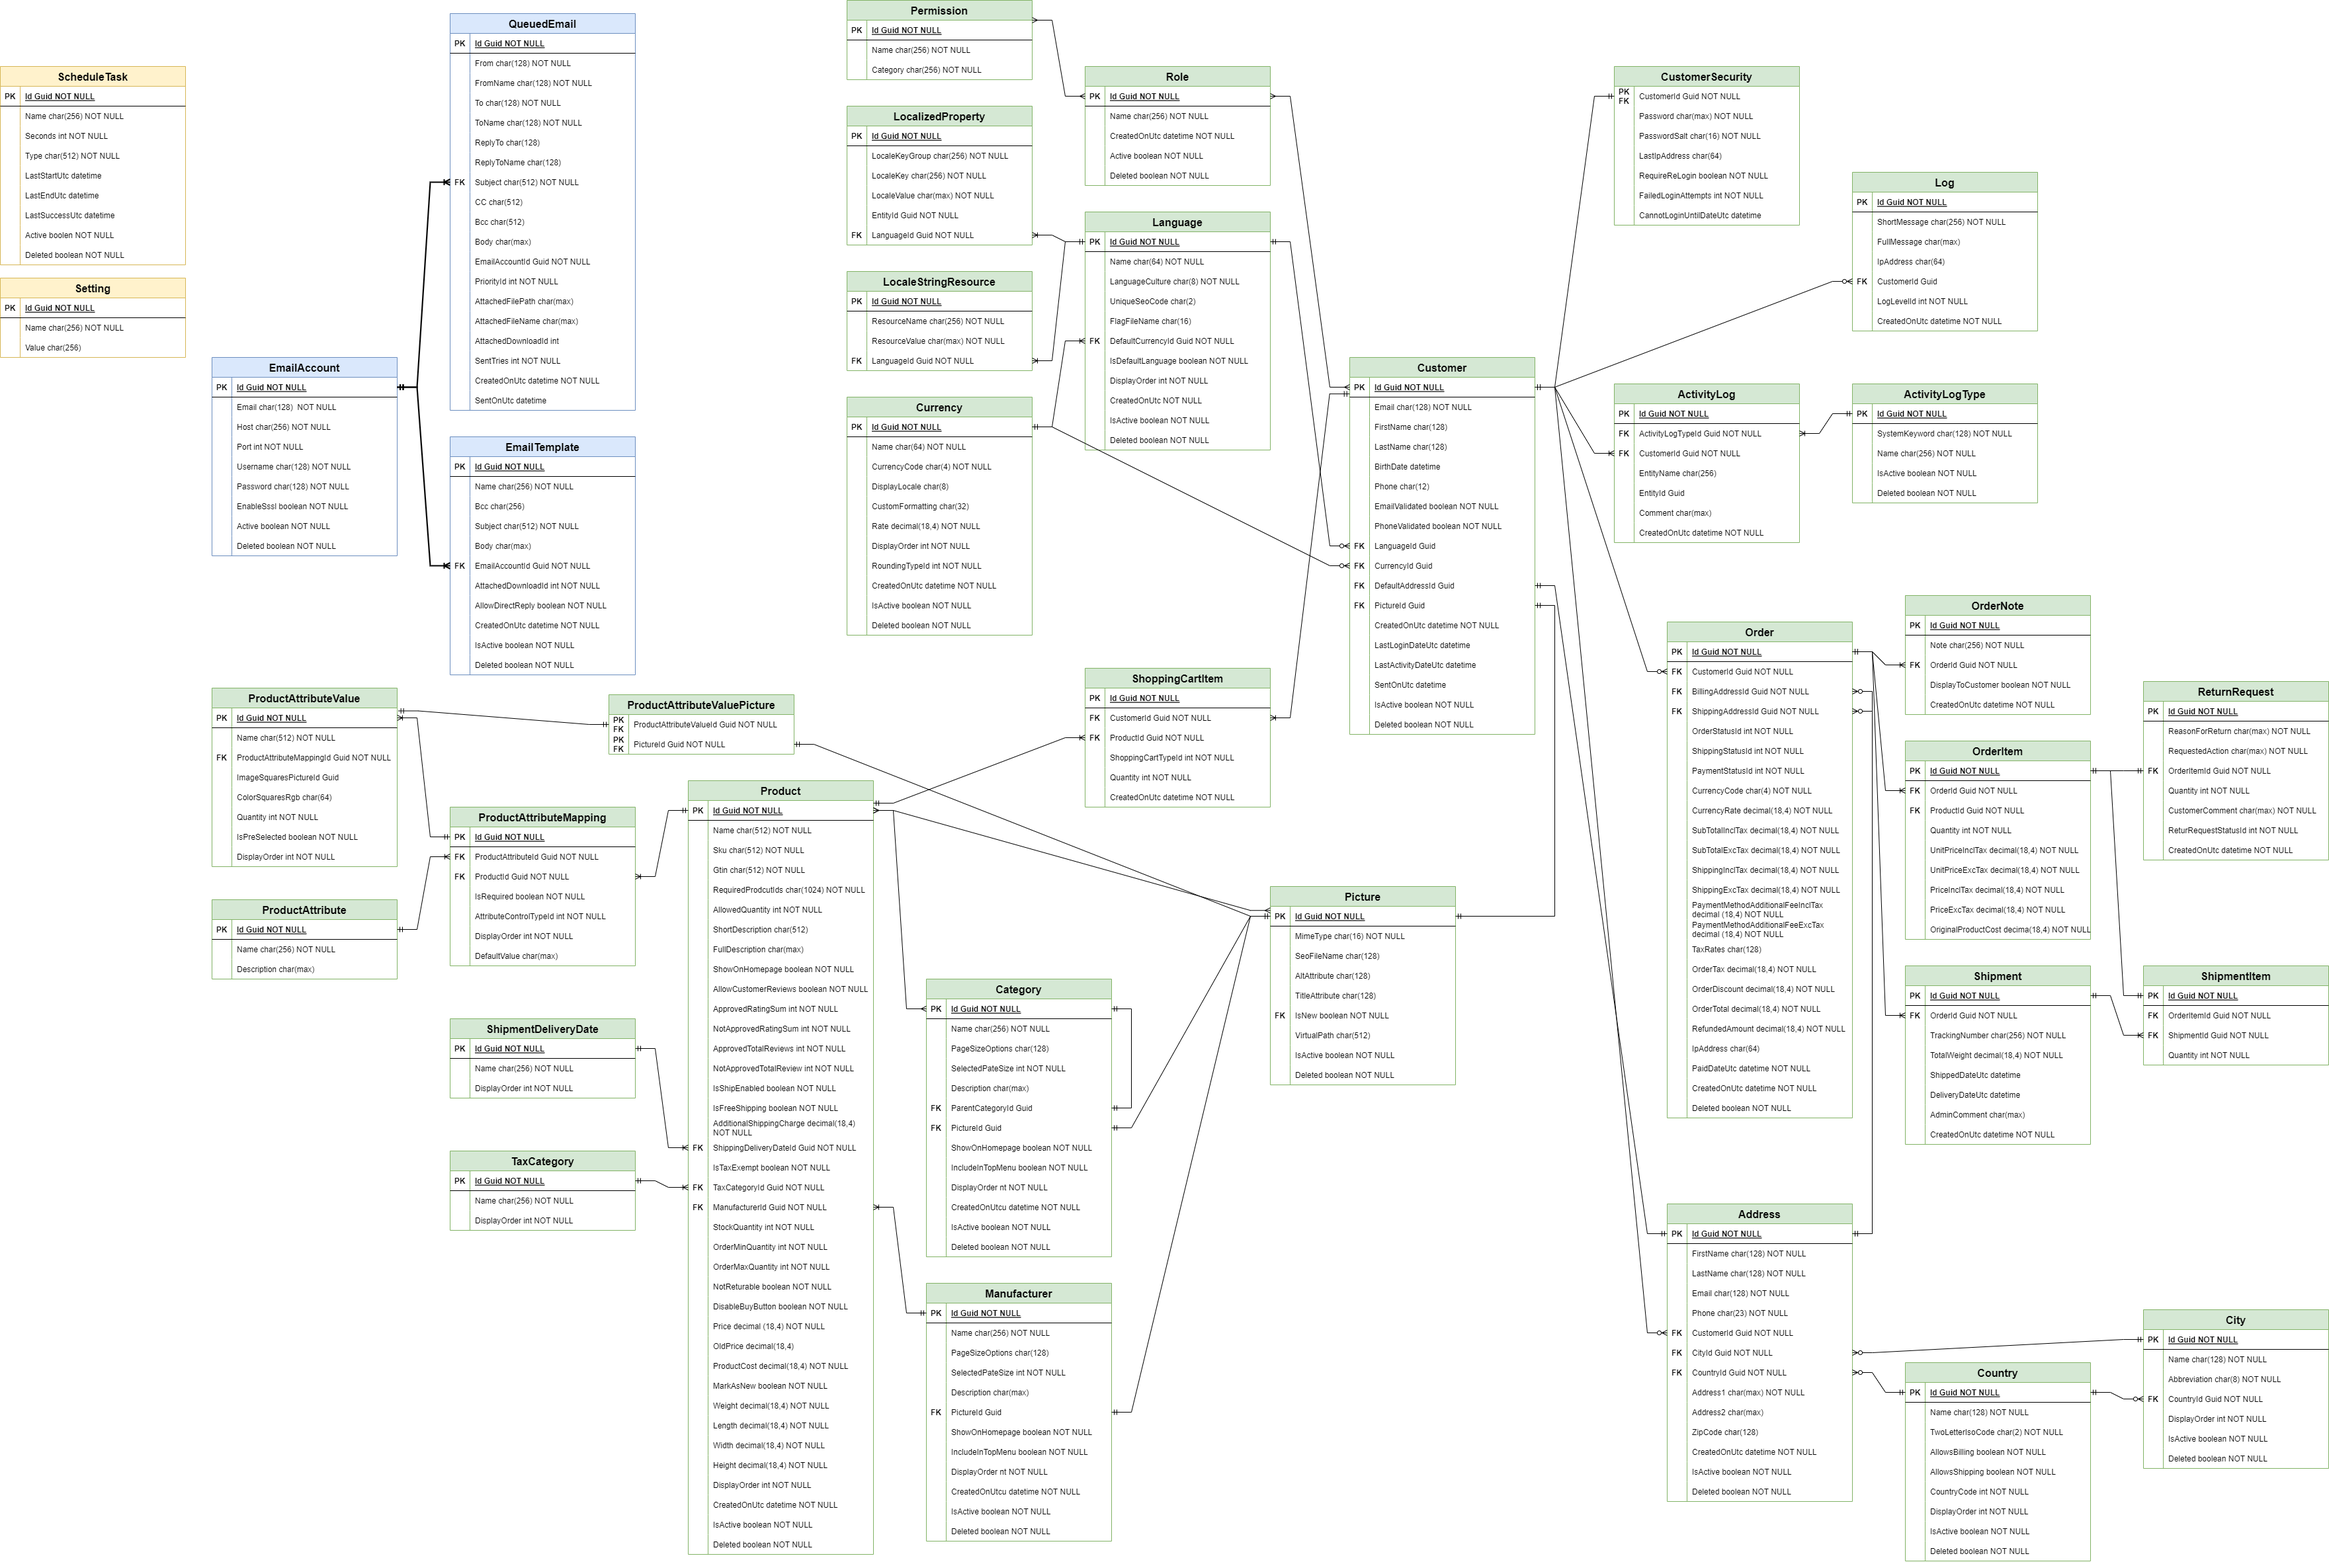
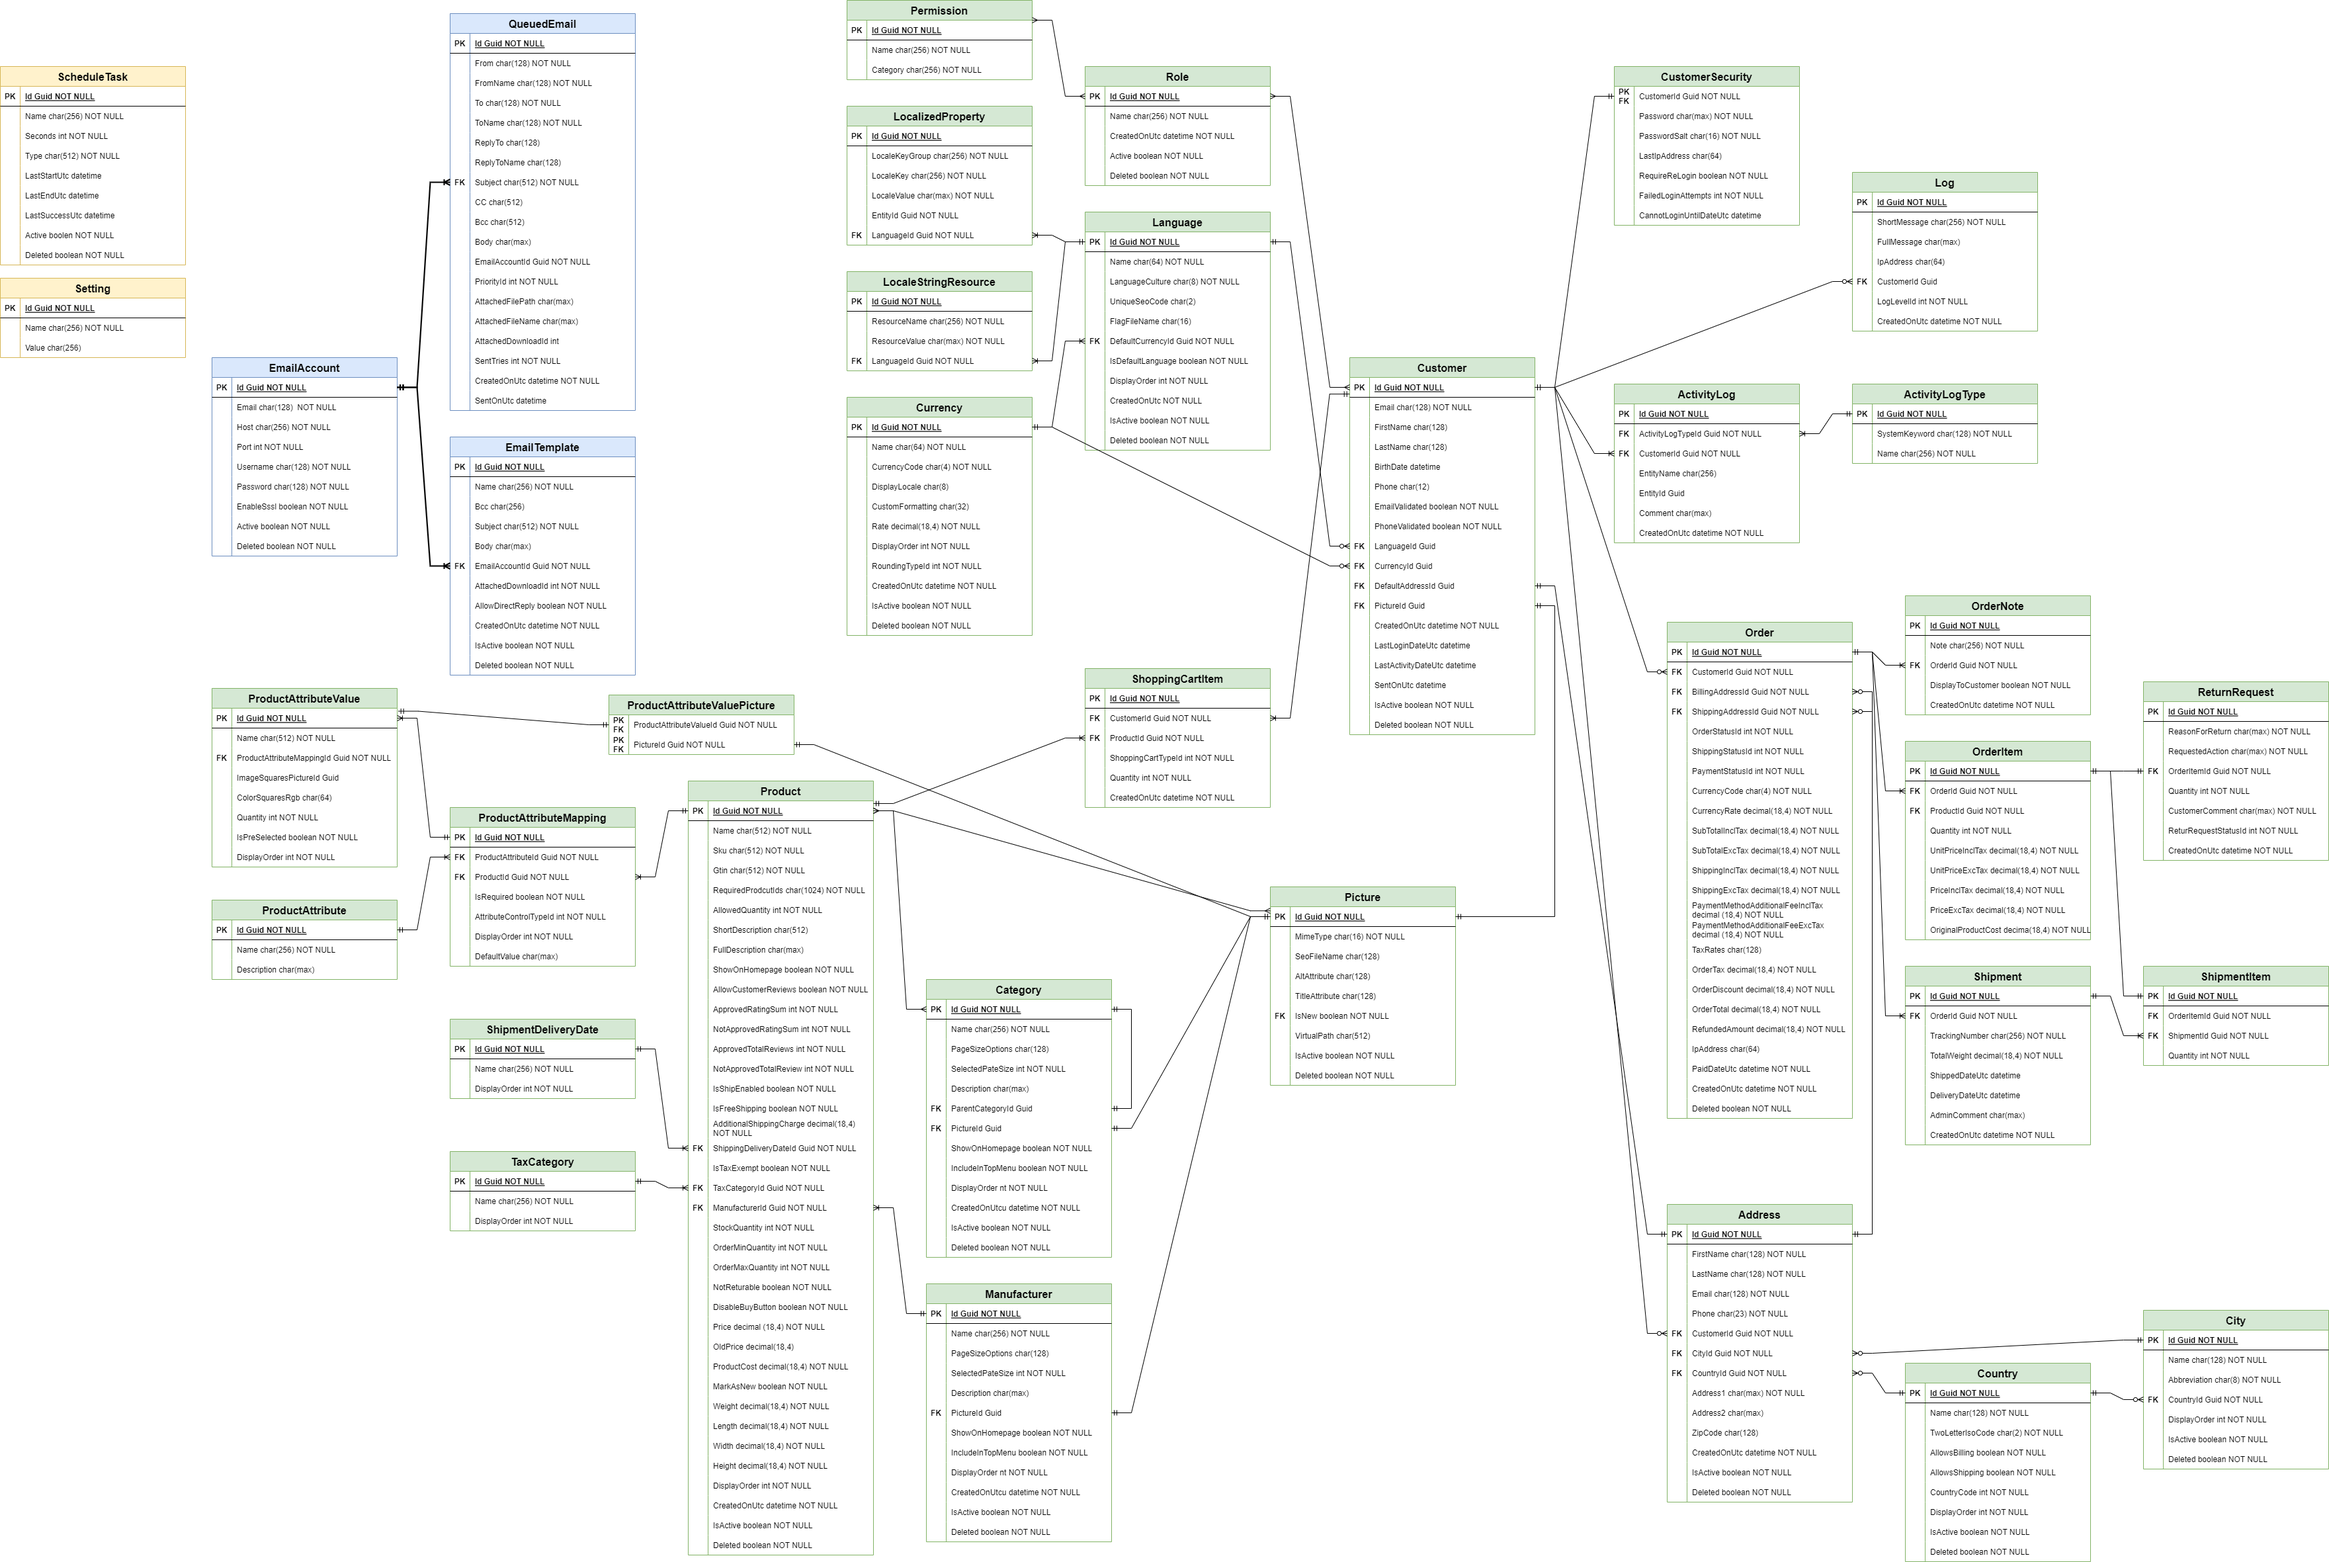
updated ActivityLog classes

diff --git a/src/eCommerce.Infrastructure/Persistence/Builders/Logging/ActivityLogTypeBuilder.cs b/src/eCommerce.Infrastructure/Persistence/Builders/Logging/ActivityLogTypeBuilder.cs
@@ -1,8 +1,8 @@
-using Microsoft.EntityFrameworkCore;
+using eCommerce.Core.Domain.Logging;
+using Microsoft.EntityFrameworkCore;
 using Microsoft.EntityFrameworkCore.Metadata.Builders;
-using YerdenYuksek.Core.Domain.Logging;
 
-namespace YerdenYuksek.Web.Framework.Persistence.Builders.Logging;
+namespace eCommerce.Infrastructure.Persistence.Builders.Logging;
 
 public sealed class ActivityLogTypeBuilder : IEntityTypeConfiguration<ActivityLogType>
 {
@@ -13,9 +13,14 @@ public sealed class ActivityLogTypeBuilder : IEntityTypeConfiguration<ActivityLo
         builder.HasKey(x => x.Id);
 
         builder.Property(q => q.SystemKeyword)
-            .HasMaxLength(255);
+            .HasMaxLength(128);
 
         builder.Property(q => q.Name)
-            .HasMaxLength(255);
+            .HasMaxLength(256);
+
+        builder.HasMany(q => q.ActivityLogs)
+            .WithOne(q => q.ActivityLogType)
+            .HasForeignKey(q => q.ActivityLogTypeId)
+            .IsRequired();
     }
 }

diff --git a/src/eCommerce.Infrastructure/Persistence/Builders/Logging/ActivityLogBuilder.cs b/src/eCommerce.Infrastructure/Persistence/Builders/Logging/ActivityLogBuilder.cs
@@ -2,7 +2,7 @@
 using Microsoft.EntityFrameworkCore.Metadata.Builders;
 using YerdenYuksek.Core.Domain.Logging;
 
-namespace YerdenYuksek.Web.Framework.Persistence.Builders.Logging;
+namespace eCommerce.Infrastructure.Framework.Persistence.Builders.Logging;
 
 public sealed class ActivityLogBuilder : IEntityTypeConfiguration<ActivityLog>
 {
@@ -12,15 +12,10 @@ public sealed class ActivityLogBuilder : IEntityTypeConfiguration<ActivityLog>
         
         builder.HasKey(x => x.Id);
 
-        builder.Property(q => q.IpAddress)
-            .HasMaxLength(16);
+        builder.Property(q => q.EntityName)
+            .HasMaxLength(256);
 
         builder.Property(e => e.CreatedOnUtc)
             .HasPrecision(6);
-
-        builder.HasOne(q => q.ActivityLogType)
-            .WithMany()
-            .HasForeignKey(q => q.ActivityLogTypeId)
-            .IsRequired();
     }
 }

diff --git a/src/eCommerce.Core/Domain/Logging/ActivityLogType.cs b/src/eCommerce.Core/Domain/Logging/ActivityLogType.cs
@@ -1,16 +1,26 @@
 using eCommerce.Core.Primitives;
+using YerdenYuksek.Core.Domain.Logging;
 
-namespace YerdenYuksek.Core.Domain.Logging;
+namespace eCommerce.Core.Domain.Logging;
 
 public class ActivityLogType : BaseEntity
 {
+    #region Constructure and Destructure
+
+    public ActivityLogType()
+    {
+        ActivityLogs = new HashSet<ActivityLog>();
+    }
+
+    #endregion
+
     #region Public Properties
 
     public string SystemKeyword { get; set; }
 
     public string Name { get; set; }
 
-    public bool Active { get; set; }
+    public ICollection<ActivityLog> ActivityLogs { get; set; }
 
     #endregion
 }

diff --git a/src/eCommerce.Core/Domain/Logging/ActivityLog.cs b/src/eCommerce.Core/Domain/Logging/ActivityLog.cs
@@ -1,4 +1,5 @@
-using eCommerce.Core.Primitives;
+using eCommerce.Core.Domain.Logging;
+using eCommerce.Core.Primitives;
 
 namespace YerdenYuksek.Core.Domain.Logging;
 
@@ -10,11 +11,11 @@ public class ActivityLog : BaseEntity
 
     public Guid CustomerId { get; set; }
 
+    public string? EntityName { get; set; }
+
     public Guid? EntityId { get; set; }
 
-    public string IpAddress { get; set; }
-
-    public string Comment { get; set; }
+    public string? Comment { get; set; }
 
     public DateTime CreatedOnUtc { get; set; }
 

diff --git a/src/eCommerce.Infrastructure/Persistence/Builders/Customers/CustomerBuilder.cs b/src/eCommerce.Infrastructure/Persistence/Builders/Customers/CustomerBuilder.cs
@@ -63,6 +63,11 @@ public sealed class CustomerBuilder : IEntityTypeConfiguration<Customer>
             .HasForeignKey(x => x.CustomerId)
             .IsRequired(false);
 
+        builder.HasMany(q => q.ActivityLogs)
+            .WithOne()
+            .HasForeignKey(x => x.CustomerId)
+            .IsRequired();
+
         builder.HasMany(q => q.CustomerRoles)
             .WithMany(q => q.Customers)
             .UsingEntity(
